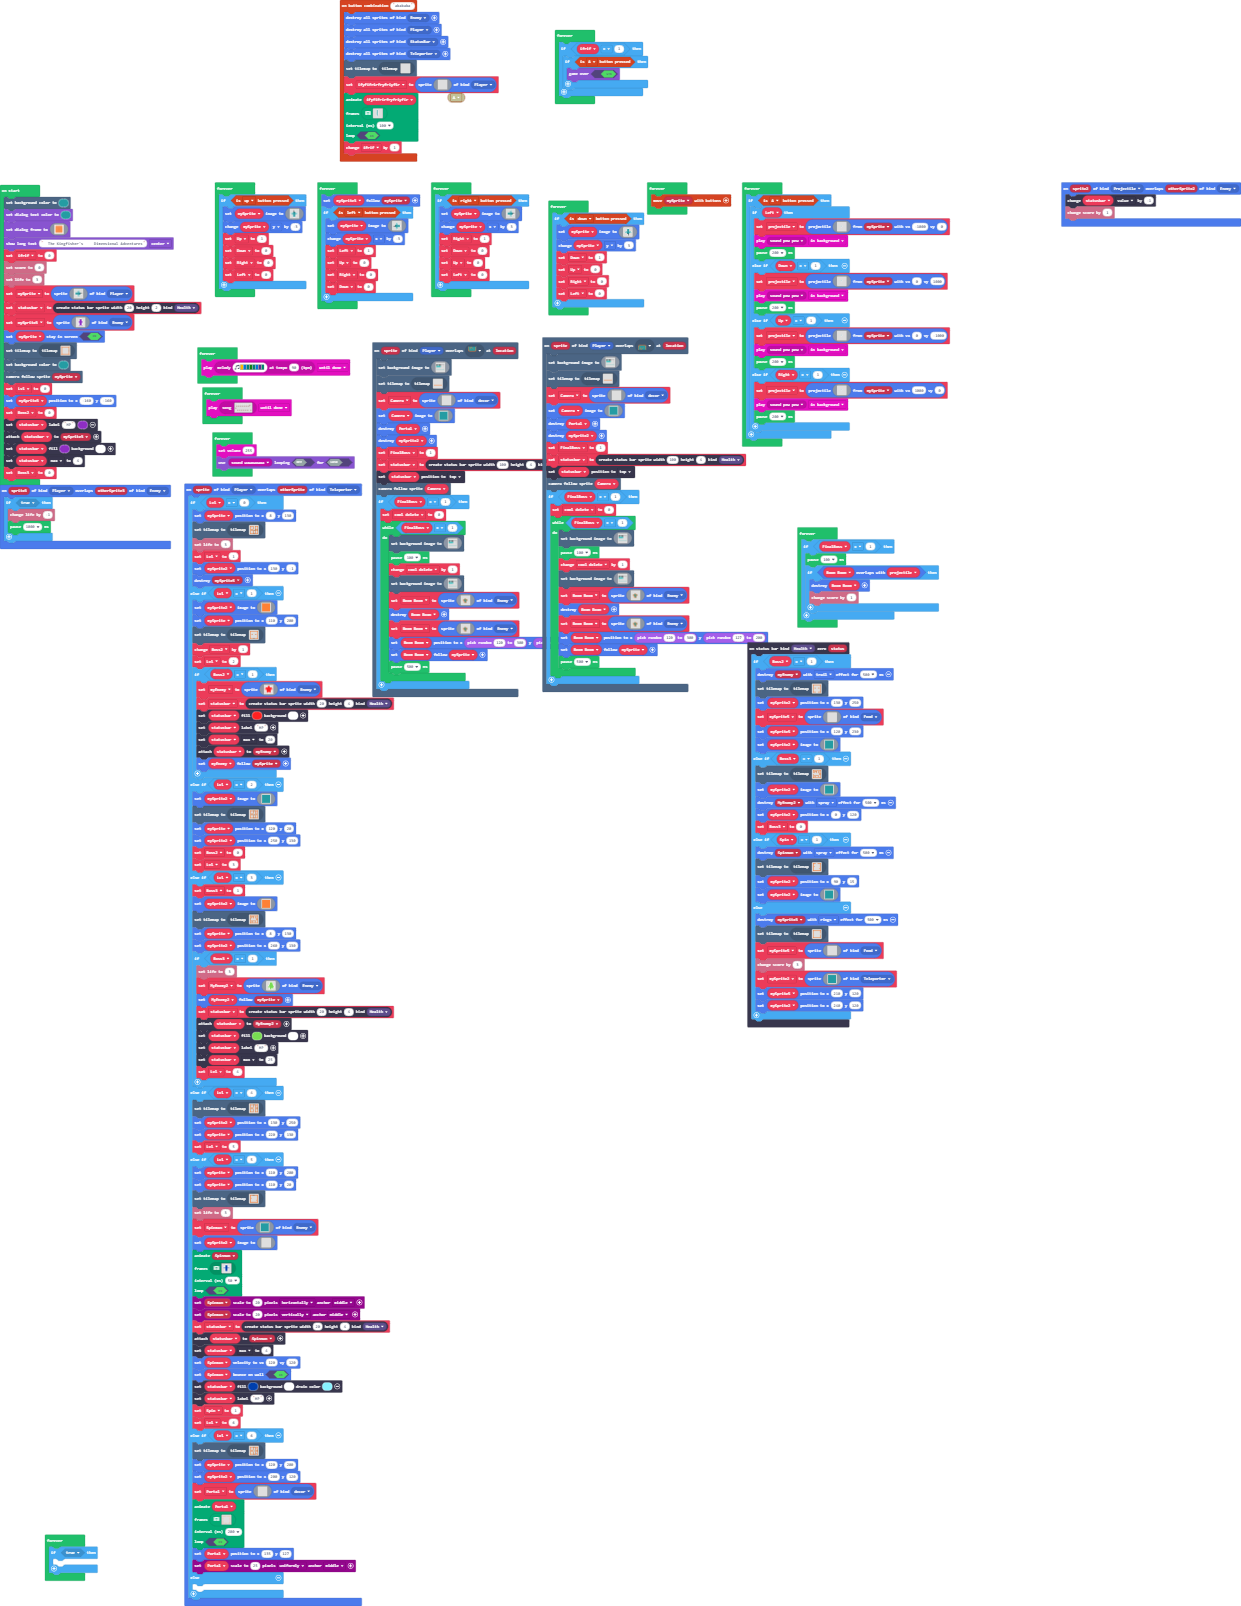
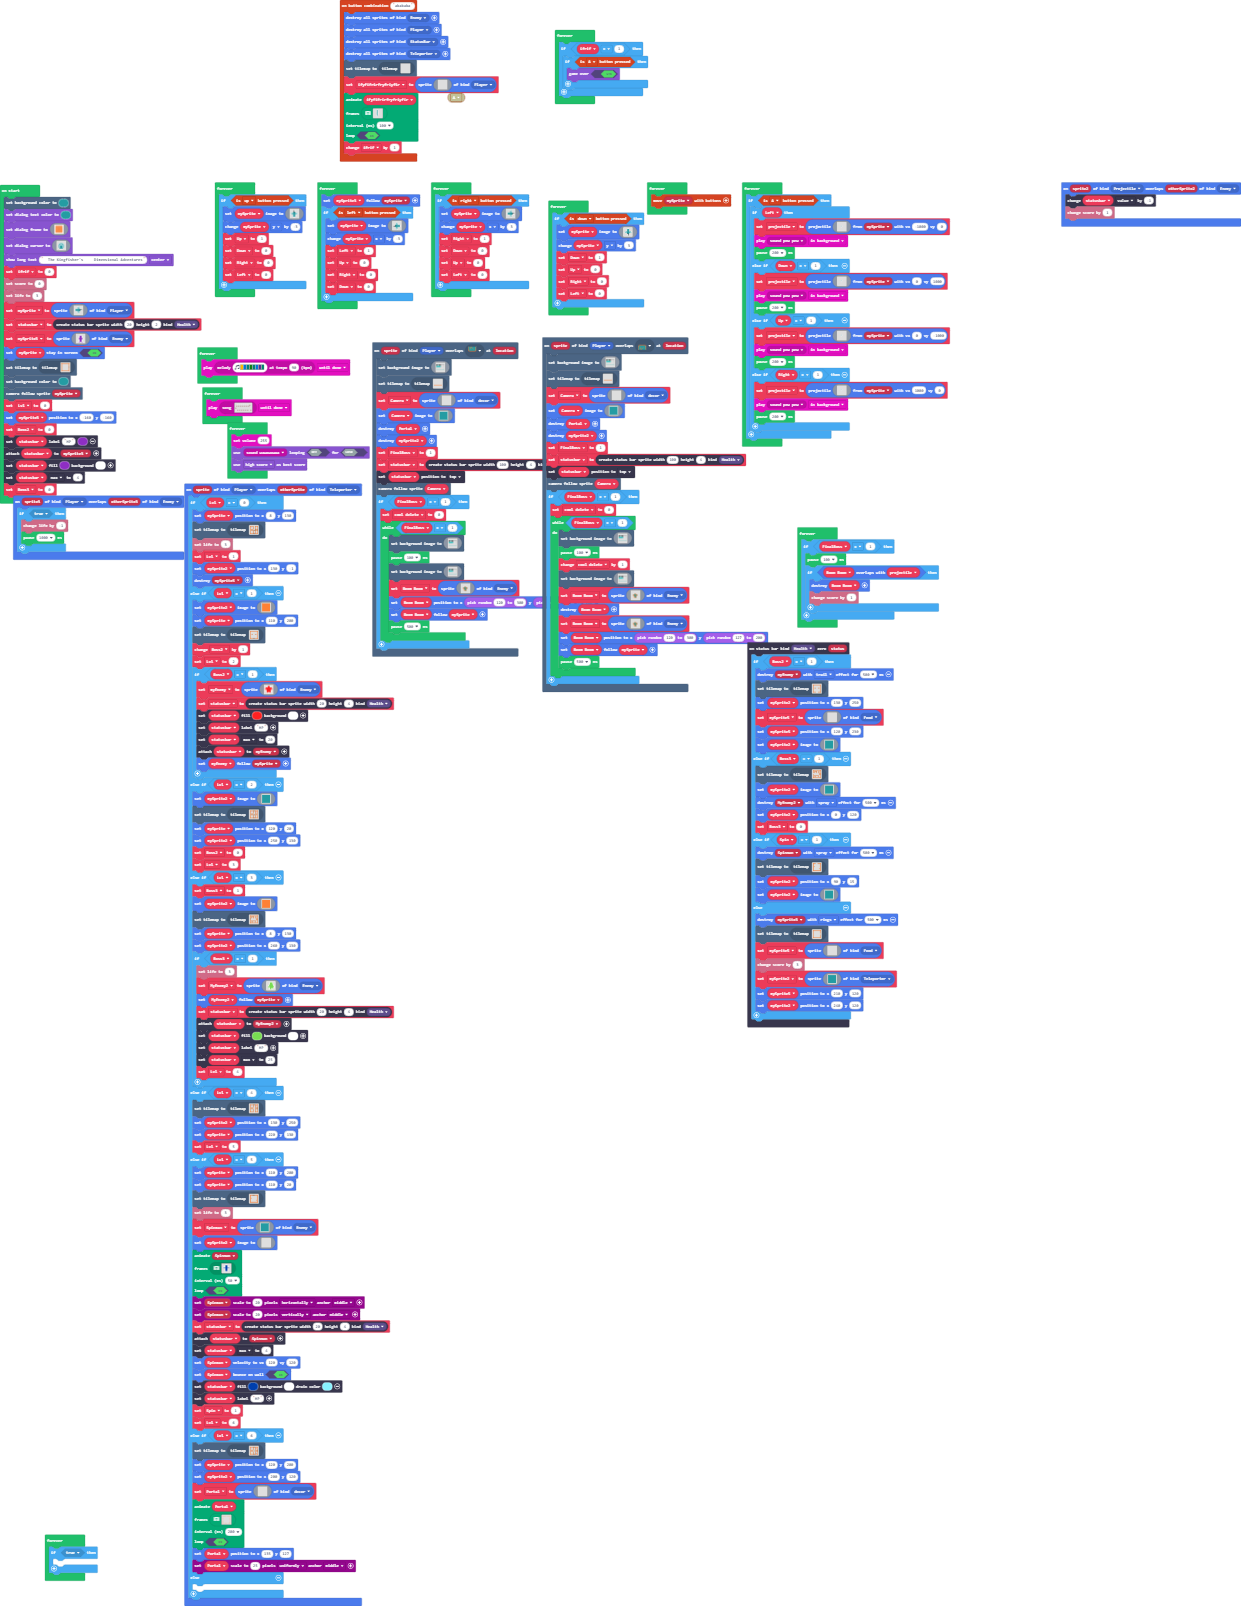
Update pxt.json, main.blocks, main.ts, tilemap.g.jres, tilemap.g.ts

Changed region(s): [[0.0, 0.1245, 0.3062, 0.3736], [0.2756, 0.3425, 0.4593, 0.4359]]

diff --git a/tilemap.g.ts b/tilemap.g.ts
@@ -49,25 +49,6 @@ namespace myTiles {
 
     helpers._registerFactory("tilemap", function(name: string) {
         switch(helpers.stringTrim(name)) {
-            case "level1":
-            case "level1":return tiles.createTilemap(hex`1000100000000000000000000000000000000000000000000000000000000000000000000000000000000000000000000000000000000000000000000000000000000000000000000000000000000000000000000000000000000000000000000000000000000000000000000000000000000000000000000000000000000000000000000000000000000000000000000000000000000000000000000000000000000000000000000000000000000000000000000000000000000000000000000000000000000000000000000000000000000000000000000000000000000000000000000000000000000000000000000000000000000000000000000000000000000000`, img`
-. . . . . . . . . . . . . . . . 
-. . . . . . . . . . . . . . . . 
-. . . . . . . . . . . . . . . . 
-. . . . . . . . . . . . . . . . 
-. . . . . . . . . . . . . . . . 
-. . . . . . . . . . . . . . . . 
-. . . . . . . . . . . . . . . . 
-. . . . . . . . . . . . . . . . 
-. . . . . . . . . . . . . . . . 
-. . . . . . . . . . . . . . . . 
-. . . . . . . . . . . . . . . . 
-. . . . . . . . . . . . . . . . 
-. . . . . . . . . . . . . . . . 
-. . . . . . . . . . . . . . . . 
-. . . . . . . . . . . . . . . . 
-. . . . . . . . . . . . . . . . 
-`, [myTiles.transparency16], TileScale.Sixteen);
             case "level3":
             case "level3":return tiles.createTilemap(hex`1000100001040404040404040404040404040401030000000000000000000000000000070300000000000000000000000000000703000000000000000000000000000007030000000000000000000000000000070300000000000000000000000000000703000000000000000000000000000005030000000000000000000000000000080300000000000000000000000000000803000000000000000000000000000006030000000000000000000000000000070300000000000000000000000000000703000000000000000000000000000007030000000000000000000000000000070300000000000000000000000000000701020202020202020202020202020201`, img`
 2 2 2 2 2 2 2 2 2 2 2 2 2 2 2 2 
@@ -307,48 +288,6 @@ namespace myTiles {
 2 . . . . . 2 . . . 2 . . . . 2 
 2 2 2 2 2 2 2 2 2 2 2 2 2 2 2 2 
 `, [myTiles.transparency16,myTiles.tile1,myTiles.tile4,myTiles.tile6,myTiles.tile9,myTiles.tile2,myTiles.tile3,myTiles.tile5,myTiles.tile7,myTiles.tile8,myTiles.tile11,myTiles.tile12,myTiles.tile13,myTiles.tile14,myTiles.tile10,myTiles.tile15,myTiles.tile17,myTiles.tile19,myTiles.tile18,myTiles.tile20,myTiles.tile22,myTiles.tile21], TileScale.Sixteen);
-            case "level51":
[1 lines of base64/hex data omitted]
-..............................
-..............................
-..............................
-..............................
-..............................
-..............................
-..............................
-.......22222222222............
-.......2.........2............
-.......2.........2............
-.......2.........2............
-.......22222222222............
-..............................
-..............................
-..............................
-..............................
-..............................
-..............................
-..............................
-..............................
-`, [myTiles.transparency16,myTiles.tile6,myTiles.tile8,myTiles.tile9,myTiles.tile12,myTiles.tile13,myTiles.tile1], TileScale.Sixteen);
-            case "level54":
-            case "level54":return tiles.createTilemap(hex`1000100000000000000000000000000000000000000000000000000000000000000000000000000000000000000000000000000000000000000000000000000000000000000000000000000000000000000000000000000000000000000000000000000000000000000000000000000000000000000000000000000000000000000000000000000000000000000000000000000000000000000000000000000000000000000000000000000000000000000000000000000000000000000000000000000000000000000000000000000000000000000000000000000000000000000000000000000000000000000000000000000000000000000000000000000000000000`, img`
-. . . . . . . . . . . . . . . . 
-. . . . . . . . . . . . . . . . 
-. . . . . . . . . . . . . . . . 
-. . . . . . . . . . . . . . . . 
-. . . . . . . . . . . . . . . . 
-. . . . . . . . . . . . . . . . 
-. . . . . . . . . . . . . . . . 
-. . . . . . . . . . . . . . . . 
-. . . . . . . . . . . . . . . . 
-. . . . . . . . . . . . . . . . 
-. . . . . . . . . . . . . . . . 
-. . . . . . . . . . . . . . . . 
-. . . . . . . . . . . . . . . . 
-. . . . . . . . . . . . . . . . 
-. . . . . . . . . . . . . . . . 
-. . . . . . . . . . . . . . . . 
-`, [myTiles.transparency16], TileScale.Sixteen);
             case "level28":
             case "level28":return tiles.createTilemap(hex`1000100000000000000000000000000000000000000000000000000000000000000000000000000000000000000000000000000000000000000000000000000000000000000000000000000000000000000000000000000000000000000000000000000000000000000000000000000000000000000000000000000000000000000000000000000000000000000000000000000000000000000000000000000000000000010101010101010101010101010101010000000000000000000000000000000000000000000000000000000000000000000000000000000000000000000000000000000000000000000000000000000000000000000000000000000000000000`, img`
 . . . . . . . . . . . . . . . . 
@@ -368,44 +307,6 @@ namespace myTiles {
 . . . . . . . . . . . . . . . . 
 . . . . . . . . . . . . . . . . 
 `, [myTiles.transparency16,myTiles.tile1], TileScale.Sixteen);
-            case "level2":
-            case "level2":return tiles.createTilemap(hex`1000100000000000000000000000000000000000000000000000000000000000000000000000000000000000000000000000000000000000000000000000000000000000000000000000000000000000000000000000000000000000000000000000000000000000000000000000000000000000000000000000000000000000000000000000000000000000000000000000000000000000000000000000000000000000000000000000000000000000000000000000000000000000000000000000000000000000000000000000000000000000000000000000000000000000000000000000000000000000000000000000000000000000000000000000000000000000`, img`
-. . . . . . . . . . . . . . . . 
-. . . . . . . . . . . . . . . . 
-. . . . . . . . . . . . . . . . 
-. . . . . . . . . . . . . . . . 
-. . . . . . . . . . . . . . . . 
-. . . . . . . . . . . . . . . . 
-. . . . . . . . . . . . . . . . 
-. . . . . . . . . . . . . . . . 
-. . . . . . . . . . . . . . . . 
-. . . . . . . . . . . . . . . . 
-. . . . . . . . . . . . . . . . 
-. . . . . . . . . . . . . . . . 
-. . . . . . . . . . . . . . . . 
-. . . . . . . . . . . . . . . . 
-. . . . . . . . . . . . . . . . 
-. . . . . . . . . . . . . . . . 
-`, [myTiles.transparency16], TileScale.Sixteen);
-            case "level6":
-            case "level6":return tiles.createTilemap(hex`1000100000000000000000000000000000000000000000000000000000000000000000000000000000000000000000000000000000000000000000000000000000000000000000000000000000000000000000000000000000000000000000000000000000000000000000000000000000000000000000000000000000000000000000000000000000000000000000000000000000000000000000000000000000000000000000000000000000000000000000000000000000000000000000000000000000000000000000000000000000000000000000000000000000000000000000000000000000000000000000000000000000000000000000000000000000000000`, img`
-. . . . . . . . . . . . . . . . 
-. . . . . . . . . . . . . . . . 
-. . . . . . . . . . . . . . . . 
-. . . . . . . . . . . . . . . . 
-. . . . . . . . . . . . . . . . 
-. . . . . . . . . . . . . . . . 
-. . . . . . . . . . . . . . . . 
-. . . . . . . . . . . . . . . . 
-. . . . . . . . . . . . . . . . 
-. . . . . . . . . . . . . . . . 
-. . . . . . . . . . . . . . . . 
-. . . . . . . . . . . . . . . . 
-. . . . . . . . . . . . . . . . 
-. . . . . . . . . . . . . . . . 
-. . . . . . . . . . . . . . . . 
-. . . . . . . . . . . . . . . . 
-`, [myTiles.transparency16], TileScale.Sixteen);
         }
         return null;
     })

diff --git a/main.ts b/main.ts
@@ -215,10 +215,7 @@ scene.onOverlapTile(SpriteKind.Player, assets.tile`myTile19`, function (sprite, 
         while (FinalBoss == 1) {
             scene.setBackgroundImage(assets.image`myImage10`)
             pause(100)
-            cool_delete += 1
             scene.setBackgroundImage(assets.image`myImage6`)
-            Boom_Boom = sprites.create(assets.image`myImage9`, SpriteKind.Enemy)
-            sprites.destroy(Boom_Boom)
             Boom_Boom = sprites.create(assets.image`myImage9`, SpriteKind.Enemy)
             Boom_Boom.setPosition(randint(120, 300), randint(127, 200))
             Boom_Boom.follow(mySprite)
@@ -486,6 +483,24 @@ let mySprite: Sprite = null
 scene.setBackgroundColor(6)
 game.setDialogTextColor(6)
 game.setDialogFrame(assets.image`b`)
+game.setDialogCursor(img`
+    . . . . . . . . . . . . . . . . 
+    . . . . . . . . . . . . . . . . 
+    . . . . . 1 1 1 1 1 1 . . . . . 
+    . . . . 1 6 6 6 6 6 6 1 . . . . 
+    . . . 1 6 6 1 1 1 1 6 6 1 . . . 
+    . . 1 6 6 1 6 6 6 6 1 6 6 1 . . 
+    . . 1 6 6 1 6 6 6 6 1 6 6 1 . . 
+    . . 1 6 6 1 1 1 1 1 1 6 6 1 . . 
+    . . 1 6 6 1 6 6 6 6 1 6 6 1 . . 
+    . . 1 6 6 1 6 6 6 6 1 6 6 1 . . 
+    . . 1 6 6 1 6 6 6 6 1 6 6 1 . . 
+    . . 1 6 6 1 6 6 6 6 1 6 6 1 . . 
+    . . . 1 6 6 6 6 6 6 6 6 1 . . . 
+    . . . . 1 6 6 6 6 6 6 1 . . . . 
+    . . . . . 1 1 1 1 1 1 . . . . . 
+    . . . . . . . . . . . . . . . . 
+    `)
 game.showLongText("  The Kingfisher's     Dimensional Adventures", DialogLayout.Center)
 let ifrif = 0
 info.setScore(0)
@@ -586,6 +601,7 @@ forever(function () {
 forever(function () {
     music.setVolume(255)
     game.setGameOverPlayable(false, music.melodyPlayable(music.wawawawaa), false)
+    game.setGameOverScoringType(game.ScoringType.HighScore)
 })
 forever(function () {
     if (FinalBoss == 1) {
